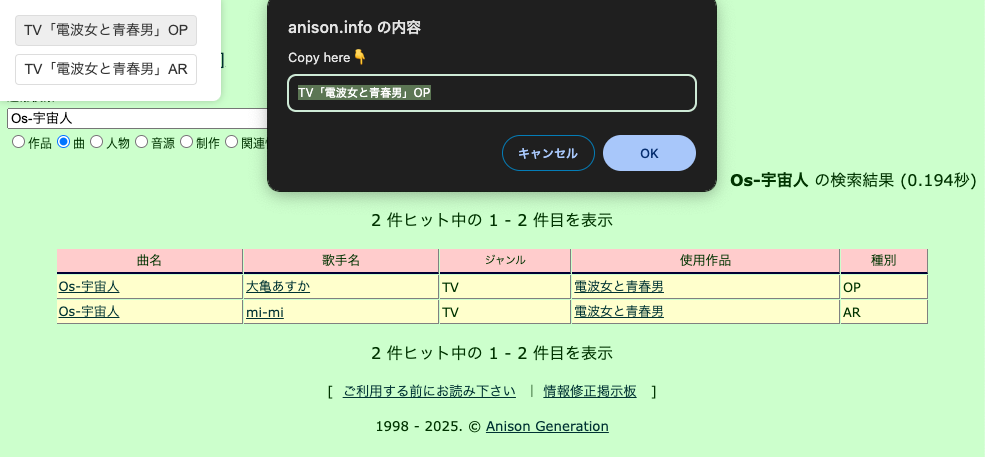
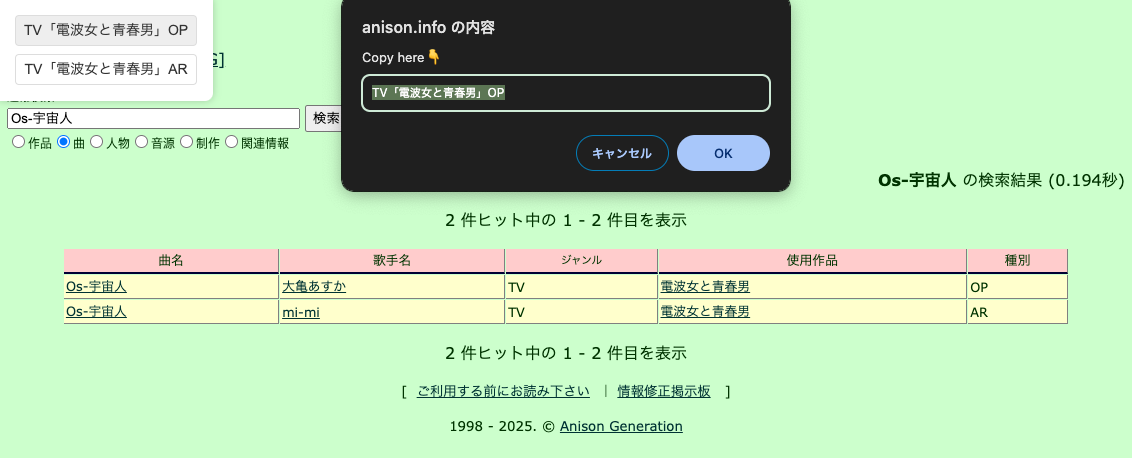
fix copySongOnAnisonGeneration.js

diff --git a/copySongOnAnisonGeneration.js b/copySongOnAnisonGeneration.js
@@ -47,7 +47,7 @@ export default () => {
       box-shadow: 0 0 8px rgba(0, 0, 0, 0.2);
       display: flex;
       flex-direction: column;
-      padding: 16px 16px 8px 16px;
+      padding: 16px;
     }
     
     .copySongOnAnisonGeneration button {
@@ -56,8 +56,11 @@ export default () => {
       border-radius: 4px;
       color: #333;
       font-size: 14px;
-      margin: 0 8px 8px 0;
       padding: 4px 8px;
+    }
+
+    .copySongOnAnisonGeneration button:not(:last-of-type) {
+      margin-bottom: 8px
     }
 
     button:hover {
